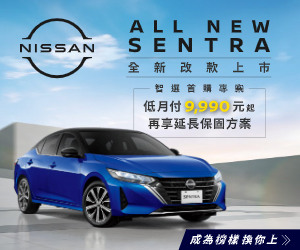
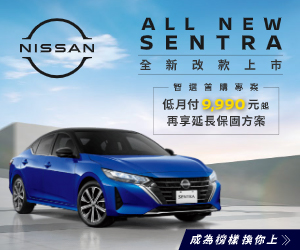
Add files via upload

diff --git a/LJ240423-R34621Q-01/Banner_dynamic/300x250/300x250.js b/LJ240423-R34621Q-01/Banner_dynamic/300x250/300x250.js
@@ -1789,19 +1789,19 @@ if (reversed == null) { reversed = false; }
 
 	// an_sc1_title
 	this.instance_1 = new lib.an_sc1title("synched",0,false);
-	this.instance_1.setTransform(398.5,96.2,1.0676,1.0676,0,0,0,137.6,52.4);
+	this.instance_1.setTransform(422.05,91.1,1.0676,1.0676,0,0,0,137.6,52.4);
 
 	this.timeline.addTween(cjs.Tween.get(this.instance_1).wait(60));
 
 	// an_car1
 	this.instance_2 = new lib.an_car1("synched",0,false);
-	this.instance_2.setTransform(-20.5,396.2,0.9344,0.9344,0,0,0,515.9,181.6);
+	this.instance_2.setTransform(-30.7,396.2,0.9344,0.9344,0,0,0,515.9,181.6);
 
 	this.timeline.addTween(cjs.Tween.get(this.instance_2).wait(60));
 
 	// an_sc1_sub
 	this.instance_3 = new lib.an_sc1sub("synched",0,false);
-	this.instance_3.setTransform(409,217.15,1.0654,1.0654,0,0,0,134.7,15.7);
+	this.instance_3.setTransform(441.85,213.1,1.02,1.02,0,0,0,134.8,15.8);
 	this.instance_3._off = true;
 
 	this.timeline.addTween(cjs.Tween.get(this.instance_3).wait(25).to({_off:false},0).wait(35));
@@ -1815,7 +1815,7 @@ if (reversed == null) { reversed = false; }
 	this._renderFirstFrame();
 
 }).prototype = p = new cjs.MovieClip();
-p.nominalBounds = new cjs.Rectangle(-502.5,-9,1537.3,574.7);
+p.nominalBounds = new cjs.Rectangle(-512.7,-9,1547.5,574.7);
 
 
 (lib.wrap = function(mode,startPosition,loop,reversed) {

diff --git a/LJ240423-R34621Q-01/Banner_dynamic/336x280/336x280.js b/LJ240423-R34621Q-01/Banner_dynamic/336x280/336x280.js
@@ -1789,19 +1789,19 @@ if (reversed == null) { reversed = false; }
 
 	// an_sc1_title
 	this.instance_1 = new lib.an_sc1title("synched",0,false);
-	this.instance_1.setTransform(398.5,96.2,1.0676,1.0676,0,0,0,137.6,52.4);
+	this.instance_1.setTransform(422.05,91.1,1.0676,1.0676,0,0,0,137.6,52.4);
 
 	this.timeline.addTween(cjs.Tween.get(this.instance_1).wait(60));
 
 	// an_car1
 	this.instance_2 = new lib.an_car1("synched",0,false);
-	this.instance_2.setTransform(-20.5,396.2,0.9344,0.9344,0,0,0,515.9,181.6);
+	this.instance_2.setTransform(-30.7,396.2,0.9344,0.9344,0,0,0,515.9,181.6);
 
 	this.timeline.addTween(cjs.Tween.get(this.instance_2).wait(60));
 
 	// an_sc1_sub
 	this.instance_3 = new lib.an_sc1sub("synched",0,false);
-	this.instance_3.setTransform(409,217.15,1.0654,1.0654,0,0,0,134.7,15.7);
+	this.instance_3.setTransform(441.85,213.1,1.02,1.02,0,0,0,134.8,15.8);
 	this.instance_3._off = true;
 
 	this.timeline.addTween(cjs.Tween.get(this.instance_3).wait(25).to({_off:false},0).wait(35));
@@ -1815,7 +1815,7 @@ if (reversed == null) { reversed = false; }
 	this._renderFirstFrame();
 
 }).prototype = p = new cjs.MovieClip();
-p.nominalBounds = new cjs.Rectangle(-502.5,-9,1537.3,574.7);
+p.nominalBounds = new cjs.Rectangle(-512.7,-9,1547.5,574.7);
 
 
 (lib.wrap = function(mode,startPosition,loop,reversed) {
